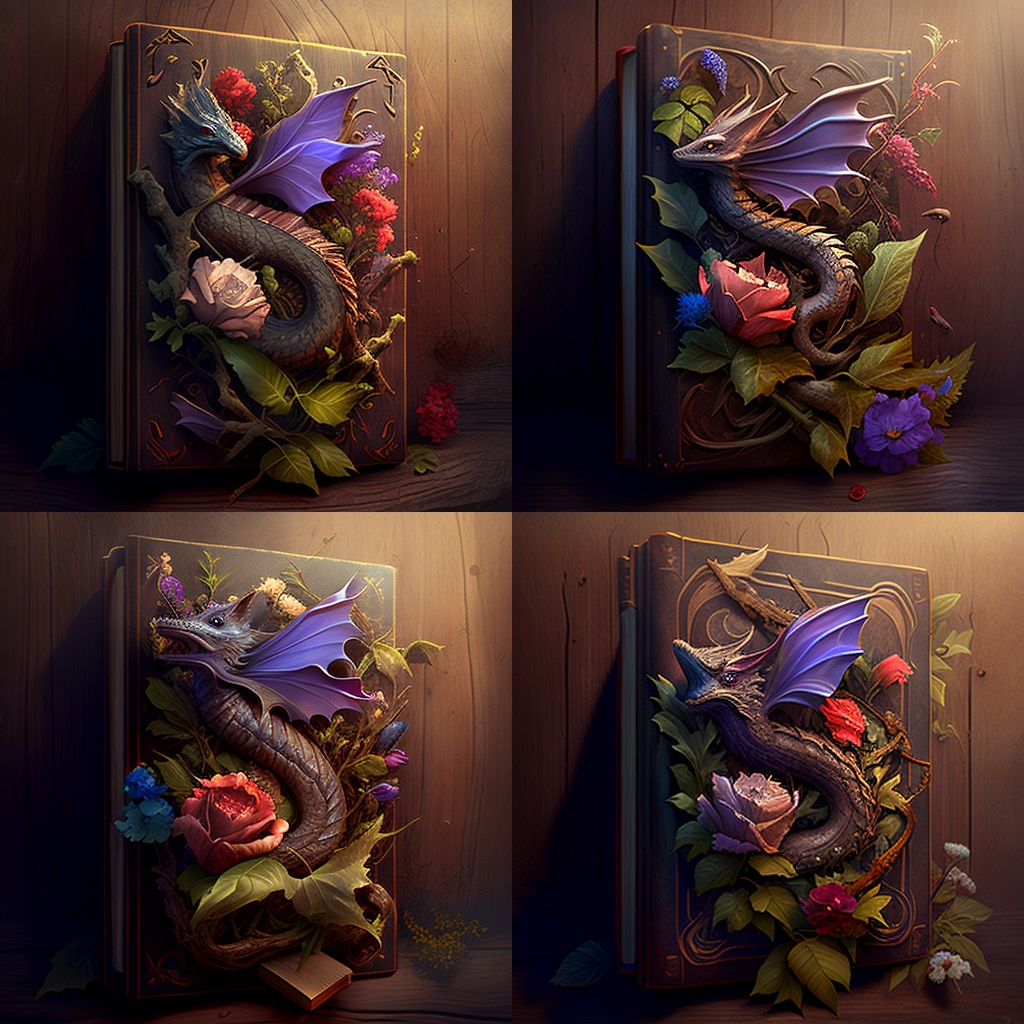
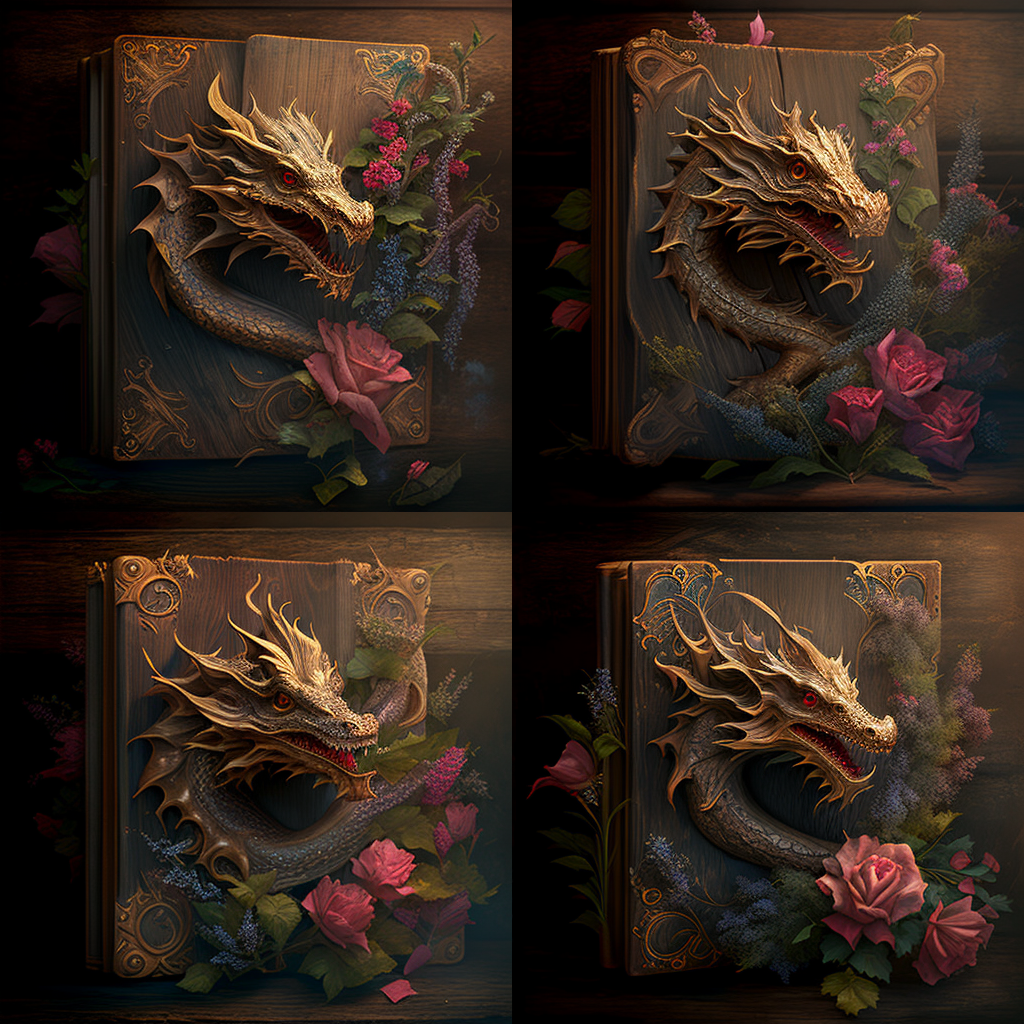
add

diff --git a/technical_task_book/tech_task_for_modeling_book.md b/technical_task_book/tech_task_for_modeling_book.md
@@ -68,6 +68,15 @@ https://www.artstation.com/artwork/DAGOJ0
 Так же можно добавить золотые орнаменты на рамку и книжку.    
 <img src="https://github.com/SeeNotEvil/design_task/blob/main/technical_task_book/ornament.jpg" width="400"/> 
 
+#### Книжка    
+Заменяем круглую рамку на книжке, на ту что слева.      
+<img src="https://github.com/SeeNotEvil/design_task/blob/main/technical_task_book/merge_book_frame.jpg" width="400"/>   
+
+Выбрать подходящую текстуру под рамку и книжку.   
+ <img src="https://github.com/SeeNotEvil/design_task/blob/main/technical_task_book/color_2.jpg" width="400"/>   
+
+ <img src="https://github.com/SeeNotEvil/design_task/blob/main/technical_task_book/color_2.jpg" width="400"/>   
+
 #### Голова дракона 
 В верхнем правом углу расположенна голова дракона.   
 <img src="https://github.com/SeeNotEvil/design_task/blob/main/technical_task_book/dragon.jpg" width="400"/> 
@@ -84,17 +93,5 @@ https://www.artstation.com/artwork/DAGOJ0
 <img src="https://github.com/SeeNotEvil/design_task/blob/main/technical_task_book/flowers_reference_3.jpg" width="400"/> 
 
 <img src="https://github.com/SeeNotEvil/design_task/blob/main/technical_task_book/flowers_reference_4.jpg" width="400"/>   
-
-#### Книжка      
-
-<img src="https://github.com/SeeNotEvil/design_task/blob/main/technical_task_book/book.jpg" width="400"/>
-
-#### Текстура и цвет книги   
-Выбрать подходящую текстуру под рамку и книжку.   
- <img src="https://github.com/SeeNotEvil/design_task/blob/main/technical_task_book/color_2.jpg" width="400"/>   
-
-#### Рамка + книжка    
-Заменяем круглую рамку на книжке, на ту что слева.      
-<img src="https://github.com/SeeNotEvil/design_task/blob/main/technical_task_book/merge_book_frame.jpg" width="400"/>   
 
 [Доп ссылка с файлом blend с которого снимались размеры](https://github.com/SeeNotEvil/design_task/tree/main/technical_task_book/blender)   
